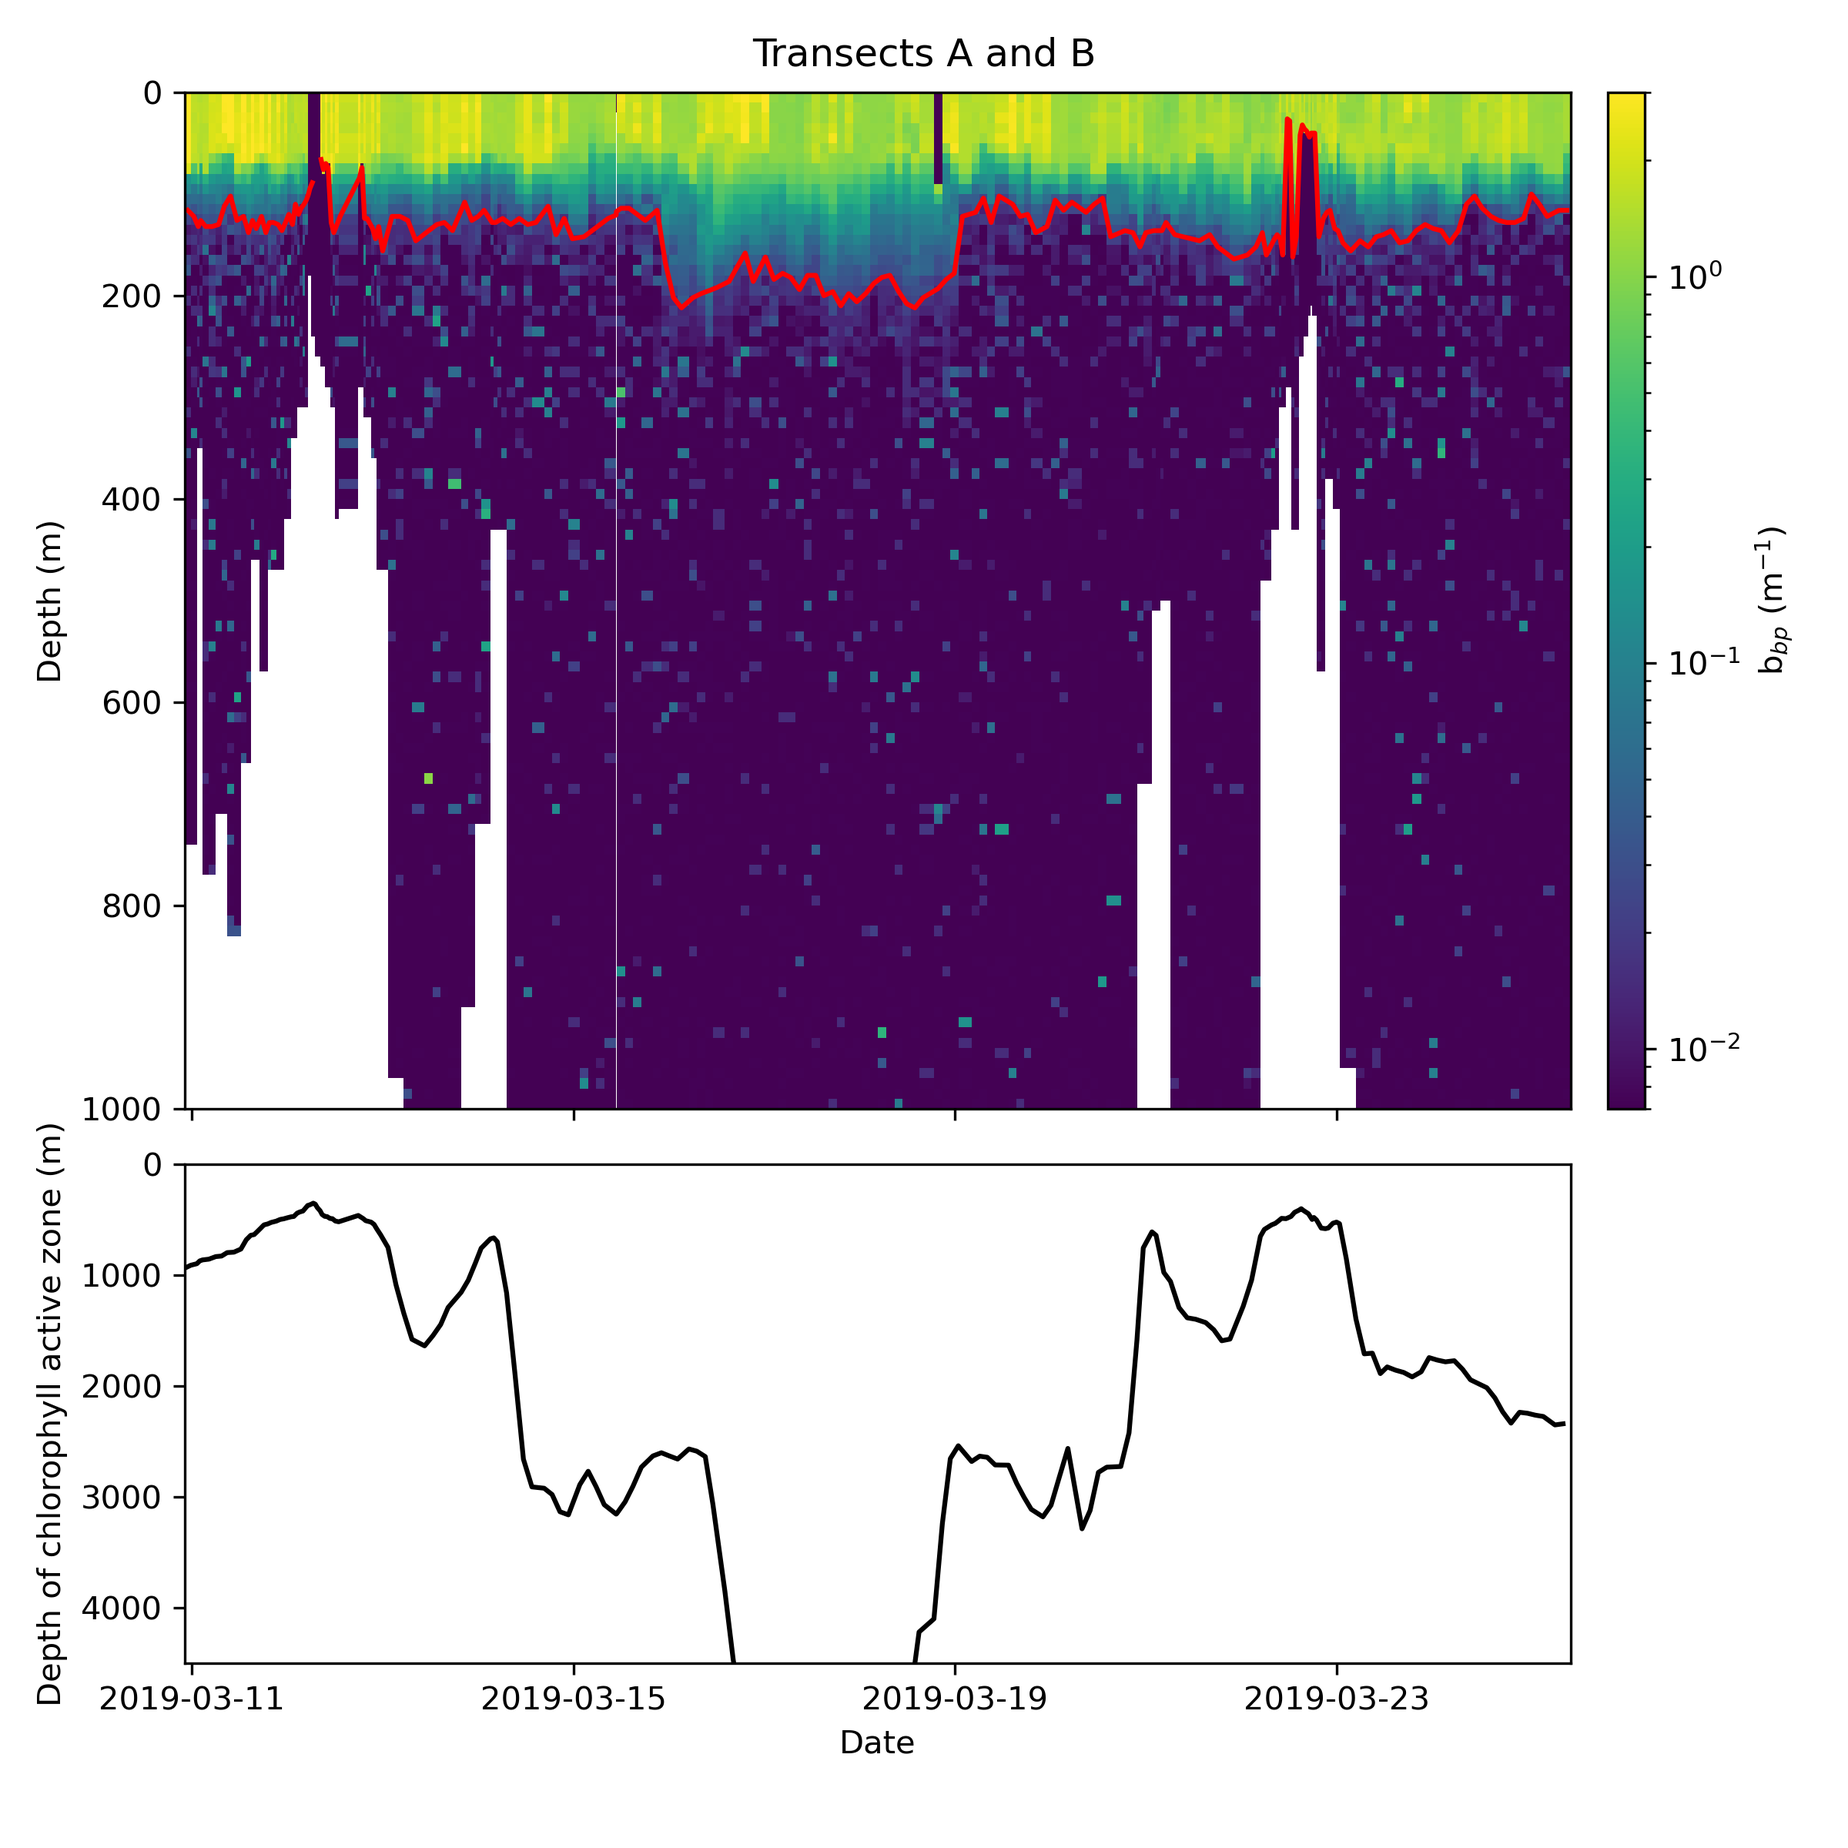
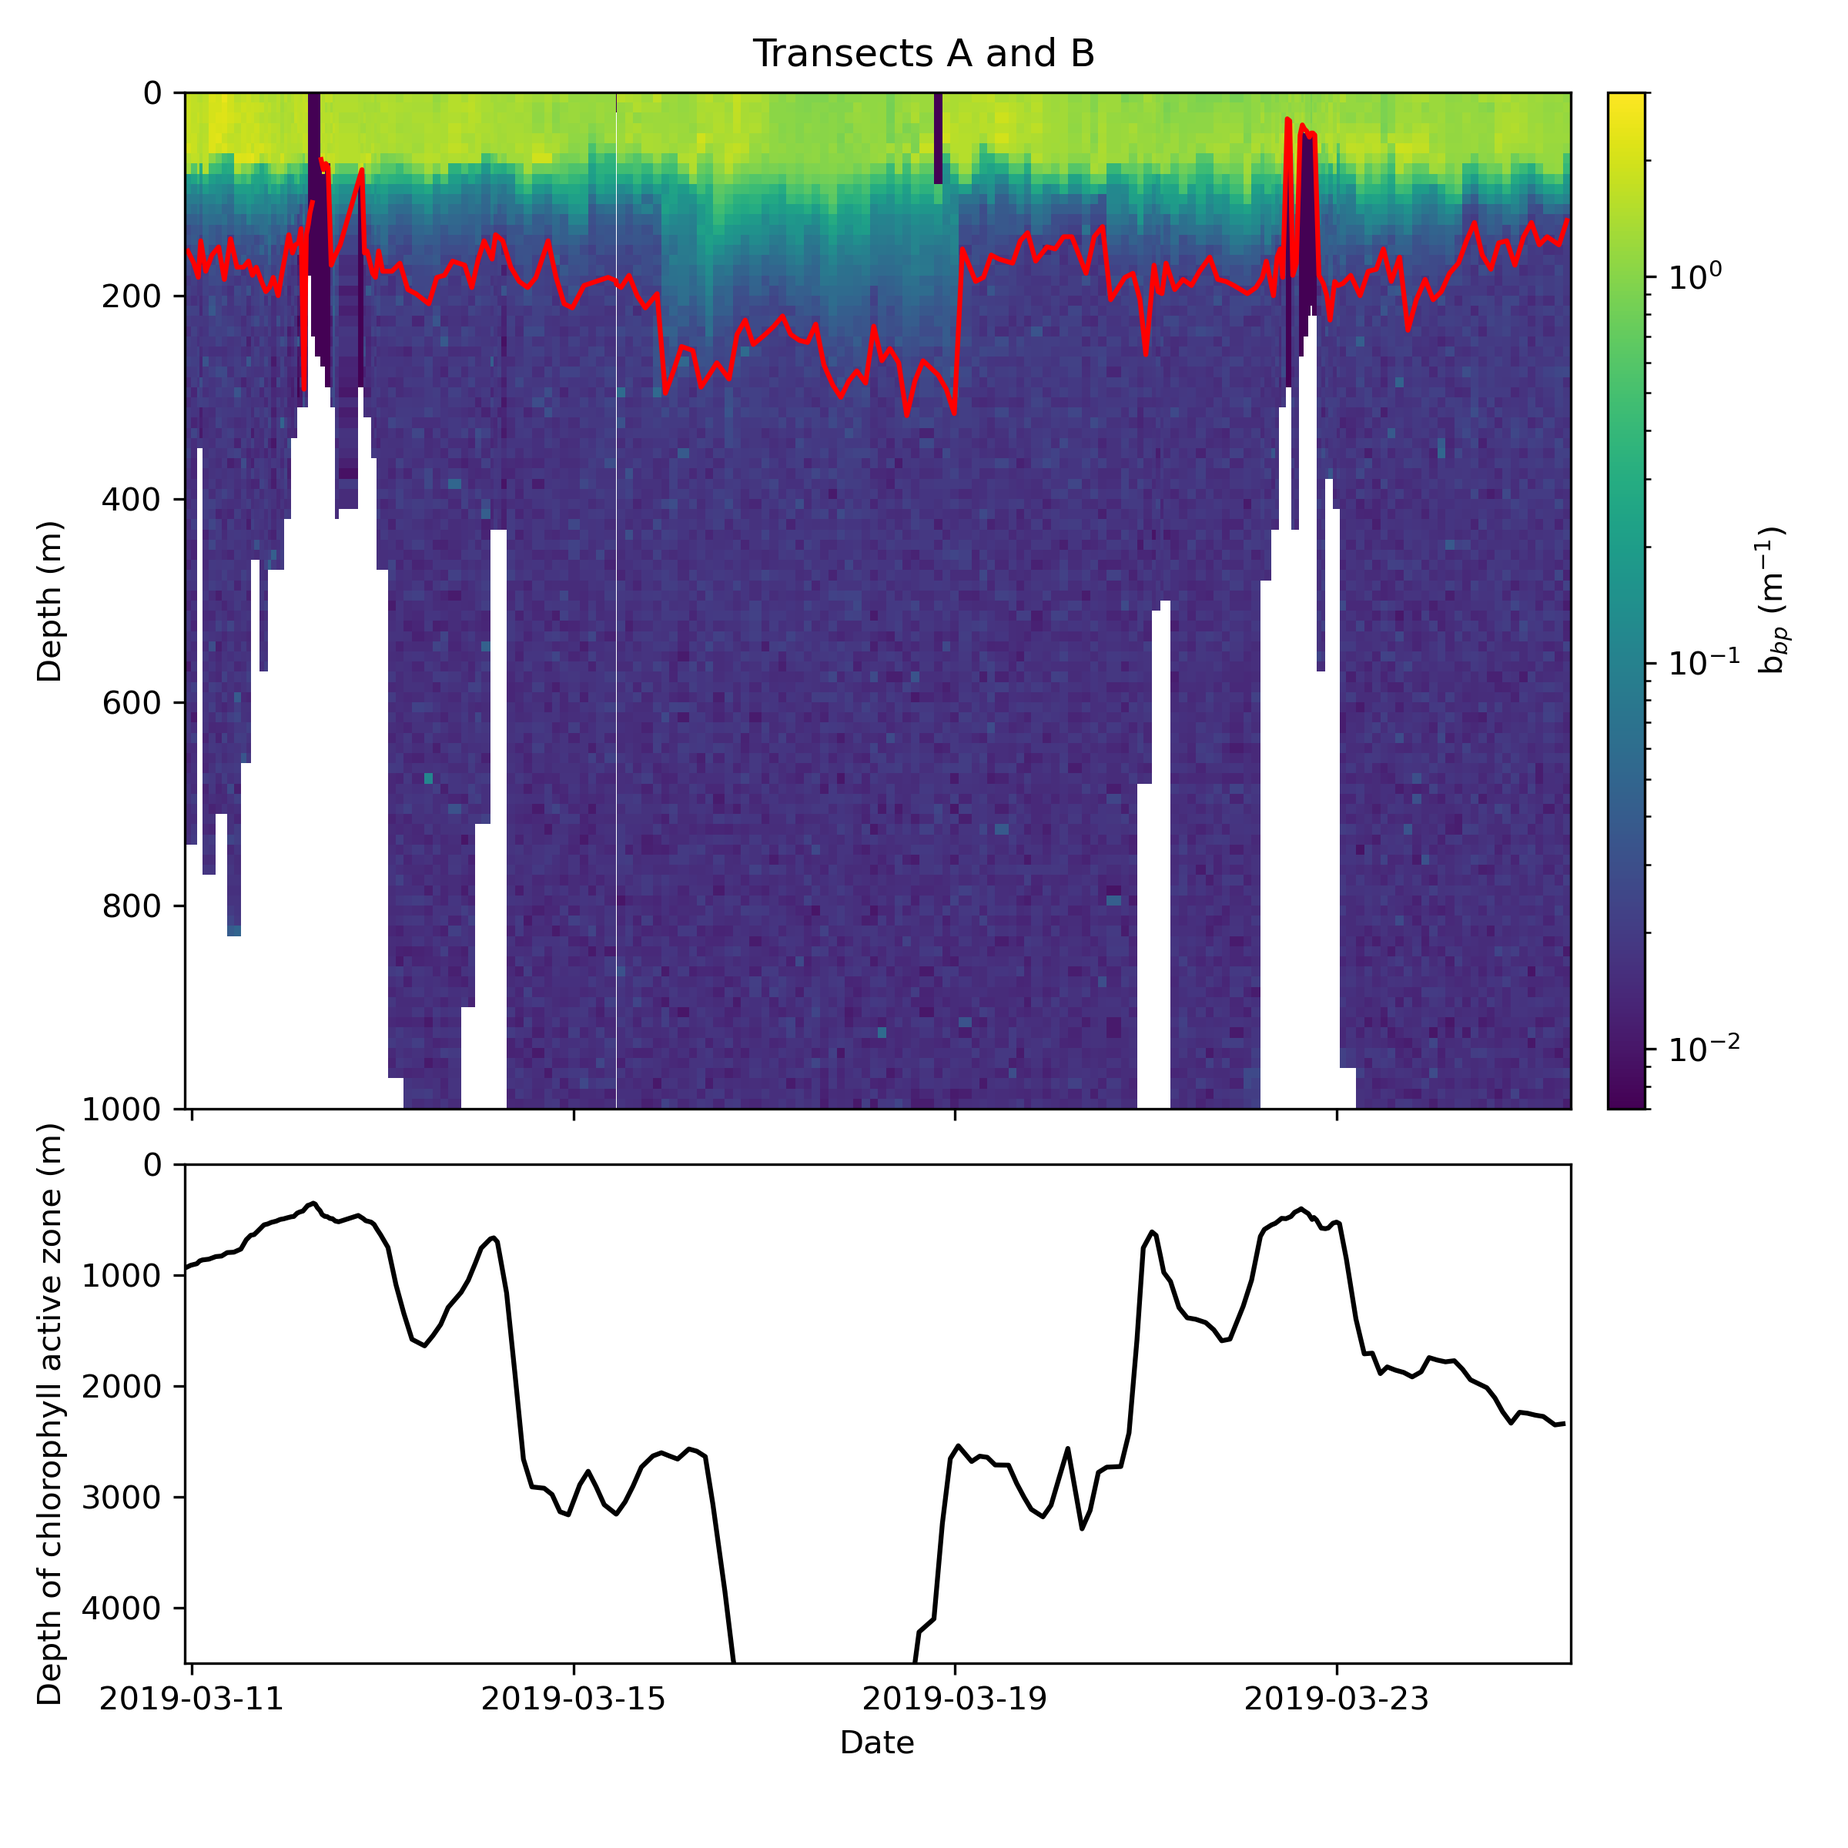
added figures K-N

Changed region(s): [[0.0938, 0.0312, 0.875, 0.625]]

diff --git a/Louis/code/FigureN.py b/Louis/code/FigureN.py
@@ -1,0 +1,121 @@
+from setup import import_split_and_make_transects, Profile, Transect
+import matplotlib.pyplot as plt
+import pandas as pd
+import numpy as np
+import seaborn as sns
+from matplotlib.colors import ListedColormap
+import xarray as xr
+from mpl_toolkits.basemap import Basemap
+import matplotlib as mpl
+from scipy.stats import linregress
+from matplotlib.legend_handler import HandlerTuple
+
+transects, profiles = import_split_and_make_transects(use_cache=True,
+                                                      use_downcasts=True,)
+
+
+def map_plot(profiles:list[Profile], ax, basemap=None) -> None:
+
+    profiles.pop(576)
+    
+
+    for p in profiles:
+        c = "#21D302FF"
+        if p.index < 635 and p.index >= 490:
+            c = "#F00000FF" # Profiles used in Figures I and M
+        
+        lon, lat = basemap(p.start_location[0], p.start_location[1])
+
+        if p.index == 560:
+            z1 = ax.scatter(lon, lat, c=c,
+                            marker="o",
+                            s=80,
+                            edgecolor="black",
+                            linewidth=0.3,
+                            alpha=0.8,)
+        else:
+            z0 = ax.scatter(lon, lat, c=c,
+                            marker="o",
+                            s=80,
+                            edgecolor="black",
+                            linewidth=0.3,
+                            alpha=0.8)
+        
+        
+        
+        if p.index < 599 and p.index >= 545:    
+            c = "#00DEF2FF" # Profiles used in Figures E and F
+            z2 = ax.scatter(lon, lat, c=c,
+                                marker="o",
+                                s=60,
+                                edgecolor="#F00000FF",
+                                linewidth=1,
+                                alpha=0.9,)
+
+    return z0, z1, z2
+    
+
+
+
+
+#fig, ax = plt.subplots(2, 1, figsize=(6,6), height_ratios=[1, 0.05])
+fig = plt.figure(figsize=(8,8))
+main_ax = fig.add_axes([0.1, 0.14, 0.8, 0.82])  # [left, bottom, width, height]
+side_ax = fig.add_axes([0.1, 0.06, 0.8, 0.02])  # [left, bottom, width, height]
+axes = [main_ax, side_ax]
+
+# Load data
+dataset = xr.open_dataset('Louis/data/gebco_2024_n-55.0_s-65.0_w-40.0_e-32.0.nc', engine="netcdf4")
+
+x = dataset.variables['lon']
+y = np.asarray(dataset.variables['lat'])
+Z = np.asarray(dataset.variables['elevation'])
+m = Basemap(llcrnrlon=-40,llcrnrlat=-62.0,urcrnrlon=-34,urcrnrlat=-59.0,
+            resolution='i',projection='merc',lon_0=-15.0,lat_0=55.0, ax=axes[0])
+x,y = m(*np.meshgrid(x,y))
+
+original_cmap = mpl.colormaps["gist_gray"]
+colors = original_cmap(np.arange(original_cmap.N))
+colors[:, -1] = 0.8  # Set alpha
+modified_cmap = ListedColormap(colors, "modified_cmap")
+bmp = m.contourf(x, y, Z, cmap=modified_cmap)
+
+# Add labels for the start and end profiles
+start_profile = profiles[0]
+end_profile = profiles[-1]
+
+start_lon, start_lat = m(start_profile.start_location[0], start_profile.start_location[1])
+end_lon, end_lat = m(end_profile.start_location[0], end_profile.start_location[1])
+print(start_lon, start_lat)
+axes[0].text(start_lon, start_lat + 10000, "Start", fontsize=10, color="red", fontweight="bold", ha="center", va="center")
+axes[0].text(end_lon, end_lat - 10000, "End", fontsize=10, color="red", fontweight="bold", ha="center", va="center")
+
+m.fillcontinents(color='grey')
+m.drawparallels(np.arange(-65,-50,1), labels=[1,0,0,0])
+m.drawmeridians(np.arange(-40, -30, 1), labels=[0,0,0,1])
+
+
+
+z0, z1, z2 = map_plot(profiles, axes[0], basemap=m)
+
+
+axes[0].legend()
+
+
+
+axes[0].set_xlabel("Longitude", labelpad=15)
+axes[0].set_ylabel("Latitude")
+
+
+axes[1].invert_xaxis()
+plt.colorbar(bmp, cax=axes[1], orientation="horizontal")
+axes[1].set_xlabel(r"Depth (m)")
+xticks = axes[1].get_xticks()
+axes[1].set_xticklabels([int(abs(tick)) for tick in xticks])
+
+
+axes[0].legend([z0, z1, (z1, z2)], ['Glider 631 Track', 'Transect 1', 'Transect 2 (Subset of Transect 1)'],
+               loc='upper left')
+
+#fig.tight_layout()
+plt.savefig("Louis/figures/figureN.png", dpi=300)

diff --git a/Louis/code/FigureL.py b/Louis/code/FigureL.py
@@ -1,0 +1,82 @@
+from setup import import_split_and_make_transects, Profile, Transect
+import matplotlib.pyplot as plt
+import pandas as pd
+import numpy as np
+import seaborn as sns
+from matplotlib.colors import ListedColormap
+import xarray as xr
+from mpl_toolkits.basemap import Basemap
+import matplotlib as mpl
+from scipy.stats import linregress
+from preprocessing.depth_calculations.chlorophyll_zone import chlorophyll_zone
+transects, profiles = import_split_and_make_transects(use_cache=True,
+                                                      use_downcasts=True,)
+profiles = chlorophyll_zone(profiles)
+def map_plot(profiles:list[Profile], colour_parameter:str, ax, variable_limit=None, basemap=None) -> None:
+
+        
+    longitudes = np.asarray([p.start_location[0] for p in profiles if p.active_zone>100])
+    latitudes = np.asarray([p.start_location[1] for p in profiles if p.active_zone>100])
+    colors = np.asarray([(p.active_zone - p.photic_depth) for p in profiles if p.active_zone>100])
+
+
+    
+    if basemap != None:
+        longitudes, latitudes = basemap(longitudes, latitudes)
+    pcm = ax.scatter(longitudes, latitudes, c=colors, s=15, cmap="magma", norm=mpl.colors.Normalize(vmin=30, vmax=130))
+    return pcm
+    
+
+
+
+
+#fig, ax = plt.subplots(2, 1, figsize=(6,6), height_ratios=[1, 0.05])
+fig = plt.figure(figsize=(8,8))
+main_ax = fig.add_axes([0.1, 0.2, 0.7, 0.7])  # [left, bottom, width, height]
+bottom_ax = fig.add_axes([0.2, 0.1, 0.5, 0.02])  # [left, bottom, width, height]
+side_ax = fig.add_axes([0.82, 0.3, 0.02, 0.5])  # [left, bottom, width, height]
+axes = [main_ax, bottom_ax, side_ax]
+
+# Load data
+dataset = xr.open_dataset('Louis/data/gebco_2024_n-55.0_s-65.0_w-40.0_e-32.0.nc', engine="netcdf4")
+
+x = dataset.variables['lon']
+y = np.asarray(dataset.variables['lat'])
+Z = np.asarray(dataset.variables['elevation'])
+m = Basemap(llcrnrlon=-40,llcrnrlat=-62.0,urcrnrlon=-34,urcrnrlat=-59.0,
+            resolution='i',projection='merc',lon_0=-15.0,lat_0=55.0, ax=axes[0])
+x,y = m(*np.meshgrid(x,y))
+
+original_cmap = mpl.colormaps["gist_gray"]
+colors = original_cmap(np.arange(original_cmap.N))
+colors[:, -1] = 0.8  # Set alpha
+modified_cmap = ListedColormap(colors, "modified_cmap")
+bmp = m.contourf(x, y, Z, cmap=modified_cmap)
+
+
+m.fillcontinents(color='grey')
+m.drawparallels(np.arange(-65,-50,1), labels=[1,0,0,0])
+m.drawmeridians(np.arange(-40, -30, 1), labels=[0,0,0,1])
+
+
+
+pcm = map_plot(profiles, "bbp_minimum_despiked", axes[0], variable_limit=None, basemap=m)
+axes[0].set_xlabel("Longitude", labelpad=15)
+axes[0].set_ylabel("Latitude")
+
+plt.colorbar(pcm, cax=axes[1], orientation="horizontal")
+axes[1].set_xlabel(r"Extent of active zone beyond photic zone (m)")
+
+
+
+
+axes[2].invert_xaxis()
+plt.colorbar(bmp, cax=axes[2], orientation="vertical")
+axes[2].set_ylabel(r"Depth (m)")
+xticks = axes[2].get_xticks()
+axes[2].set_xticklabels([int(abs(tick)) for tick in xticks])
+
+
+
+#fig.tight_layout()
+plt.savefig("Louis/figures/figureL.png", dpi=300)

diff --git a/Louis/code/FigureK.py b/Louis/code/FigureK.py
@@ -1,0 +1,81 @@
+from setup import import_split_and_make_transects, Profile, Transect
+import matplotlib.pyplot as plt
+import pandas as pd
+import numpy as np
+import seaborn as sns
+from matplotlib.colors import ListedColormap
+import xarray as xr
+from mpl_toolkits.basemap import Basemap
+import matplotlib as mpl
+from scipy.stats import linregress
+transects, profiles = import_split_and_make_transects(use_cache=True,
+                                                      use_downcasts=True,)
+
+def map_plot(profiles:list[Profile], colour_parameter:str, ax, variable_limit=None, basemap=None) -> None:
+
+        
+    longitudes = np.asarray([p.start_location[0] for p in profiles if p.active_zone>100])
+    latitudes = np.asarray([p.start_location[1] for p in profiles if p.active_zone>100])
+    colors = np.asarray([p.active_zone for p in profiles if p.active_zone>100])
+
+
+    
+    if basemap != None:
+        longitudes, latitudes = basemap(longitudes, latitudes)
+    pcm = ax.scatter(longitudes, latitudes, c=colors, s=15, cmap="turbo", norm=mpl.colors.Normalize(vmin=100, vmax=260))
+    return pcm
+    
+
+
+
+
+#fig, ax = plt.subplots(2, 1, figsize=(6,6), height_ratios=[1, 0.05])
+fig = plt.figure(figsize=(8,8))
+main_ax = fig.add_axes([0.1, 0.2, 0.7, 0.7])  # [left, bottom, width, height]
+bottom_ax = fig.add_axes([0.2, 0.1, 0.5, 0.02])  # [left, bottom, width, height]
+side_ax = fig.add_axes([0.82, 0.3, 0.02, 0.5])  # [left, bottom, width, height]
+axes = [main_ax, bottom_ax, side_ax]
+
+# Load data
+dataset = xr.open_dataset('Louis/data/gebco_2024_n-55.0_s-65.0_w-40.0_e-32.0.nc', engine="netcdf4")
+
+x = dataset.variables['lon']
+y = np.asarray(dataset.variables['lat'])
+Z = np.asarray(dataset.variables['elevation'])
+m = Basemap(llcrnrlon=-40,llcrnrlat=-62.0,urcrnrlon=-34,urcrnrlat=-59.0,
+            resolution='i',projection='merc',lon_0=-15.0,lat_0=55.0, ax=axes[0])
+x,y = m(*np.meshgrid(x,y))
+
+original_cmap = mpl.colormaps["gist_gray"]
+colors = original_cmap(np.arange(original_cmap.N))
+#colors[:, -1] = 0.8  # Set alpha
+modified_cmap = ListedColormap(colors, "modified_cmap")
+bmp = m.contourf(x, y, Z, cmap=modified_cmap)
+
+
+m.fillcontinents(color='grey')
+m.drawparallels(np.arange(-65,-50,1), labels=[1,0,0,0])
+m.drawmeridians(np.arange(-40, -30, 1), labels=[0,0,0,1])
+
+
+
+pcm = map_plot(profiles, "bbp_minimum_despiked", axes[0], variable_limit=None, basemap=m)
+axes[0].set_xlabel("Longitude", labelpad=15)
+axes[0].set_ylabel("Latitude")
+
+plt.colorbar(pcm, cax=axes[1], orientation="horizontal")
+axes[1].set_xlabel(r"Active Zone Depth (m)")
+
+
+
+
+axes[2].invert_xaxis()
+plt.colorbar(bmp, cax=axes[2], orientation="vertical")
+axes[2].set_ylabel(r"Depth (m)")
+xticks = axes[2].get_xticks()
+axes[2].set_xticklabels([int(abs(tick)) for tick in xticks])
+
+
+
+#fig.tight_layout()
+plt.savefig("Louis/figures/figureK.png", dpi=300)

diff --git a/Louis/code/FigureM.py b/Louis/code/FigureM.py
@@ -1,0 +1,55 @@
+from setup import import_split_and_make_transects, Profile, Transect
+import matplotlib.pyplot as plt
+import numpy as np
+import pandas as pd
+import matplotlib as mpl
+from matplotlib.axes import Axes
+from plotting_functions import new_binned_plot
+from preprocessing.depth_calculations.chlorophyll_zone import chlorophyll_zone
+transects, profiles = import_split_and_make_transects(use_cache=True,
+                                                      use_downcasts=True,)
+
+profiles = chlorophyll_zone(profiles)
+
+fig = plt.figure(figsize=(8, 8))
+ax: Axes = fig.add_axes([0.1, 0.1, 0.75, 0.8])
+cbar_ax: Axes = fig.add_axes([0.89, 0.1, 0.02, 0.8])
+profiles.pop(576)
+
+profiles[537].end_time = profiles[538].end_time # PATCH HOLE IN DATA
+profiles[540].start_time = profiles[539].start_time
+profiles.pop(539)
+profiles.pop(538)
+profiles = profiles[489:631]
+
+my_cmap = mpl.colormaps["viridis"].copy()
+my_cmap.set_extremes(over=(0,0,0), under=(1,1,1))
+my_norm = mpl.colors.LogNorm(vmin=0.007, vmax=3, clip=True)
+pcm = new_binned_plot(profiles, ax, "chlorophyll_corrected", 10, 1000, cmap=my_cmap, norm=my_norm)
+
+
+az = [-p.active_zone for p in profiles if p.active_zone > p.photic_depth]
+az = list(pd.Series(az).interpolate(limit=3))
+
+pz = [-p.photic_depth for p in profiles if p.active_zone > p.photic_depth]
+pz = list(pd.Series(pz).interpolate(limit=3))
+
+st = [p.start_time + (p.end_time - p.start_time)/2 for p in profiles if p.active_zone > p.photic_depth]
+ax.plot(st, az, color="red", label="Active zone")
+ax.plot(st, pz, color="#000000", label="Photic depth")
+
+
+
+
+ax.set_ylim(-600, 0)
+ax.set_ylabel("Depth (m)")
+ax.set_yticklabels([f"{int(abs(label))}" for label in ax.get_yticks()])
+xticks = ax.get_xticks()
+print(xticks)
+ax.set_xticks(xticks[::2])
+
+plt.colorbar(pcm, cax=cbar_ax, orientation="vertical")
+cbar_ax.set_ylabel(r"Chlorophyll (mg m$^{-3}$)")
+ax.legend(loc="lower left", fontsize=8)
+#fig.tight_layout()
+plt.savefig("Louis/figures/figureM.png", dpi=300)

diff --git a/Louis/code/FigureF.py b/Louis/code/FigureF.py
@@ -8,7 +8,8 @@ from scipy.stats import linregress
 transects, profiles = import_split_and_make_transects(use_cache=True,
                                                       use_downcasts=True,)
 #profiles.pop(243)
-profiles = profiles[544:598]
+profiles.pop(576)
+profiles = profiles[544:59]
 
 fig = plt.figure(figsize=(8, 8))
 ax = fig.add_axes([0.12, 0.5, 0.8, 0.4])

diff --git a/Louis/code/preprocessing/depth_calculations/chlorophyll_zone.py b/Louis/code/preprocessing/depth_calculations/chlorophyll_zone.py
@@ -21,7 +21,7 @@ def chlorophyll_zone(profiles:list) -> list:
         c_data_smoothed = list(c_data.rolling(3, min_periods=1).mean())
 
         for i, value in enumerate(c_data_smoothed):
-            if value < 0.01 * chlorophyll95:
+            if value < 0.03 * chlorophyll95:
                 break
         if i * bin_size > 500:
             i = 0

diff --git a/Louis/code/FigureE.py b/Louis/code/FigureE.py
@@ -16,7 +16,9 @@ ax3: Axes = fig.add_axes([0.50, 0.1, 0.19, 0.8], sharey=ax)
 ax4: Axes = fig.add_axes([0.71, 0.1, 0.19, 0.8], sharey=ax)
 cbar_ax: Axes = fig.add_axes([0.92, 0.1, 0.02, 0.8])
 
-profiles = profiles[544:598]
+profiles.pop(576)
+profiles = profiles[544:597]
+
 
 my_cmap = mpl.colormaps["inferno"].copy()
 

diff --git a/Louis/code/depth_of_active_zone.py b/Louis/code/depth_of_active_zone.py
@@ -62,7 +62,6 @@ ax[0].plot(st, az, color="red")
 
 
 
-
 # AXIS 1
 bath = [p.bathymetry for p in profiles]
 time = [p.start_time for p in profiles]

diff --git a/Louis/code/FigureI.py b/Louis/code/FigureI.py
@@ -31,6 +31,7 @@ profiles.pop(538)
 
 
 profiles = profiles[489:631]
+print(profiles[0].index, profiles[-1].index)
 
 
 
